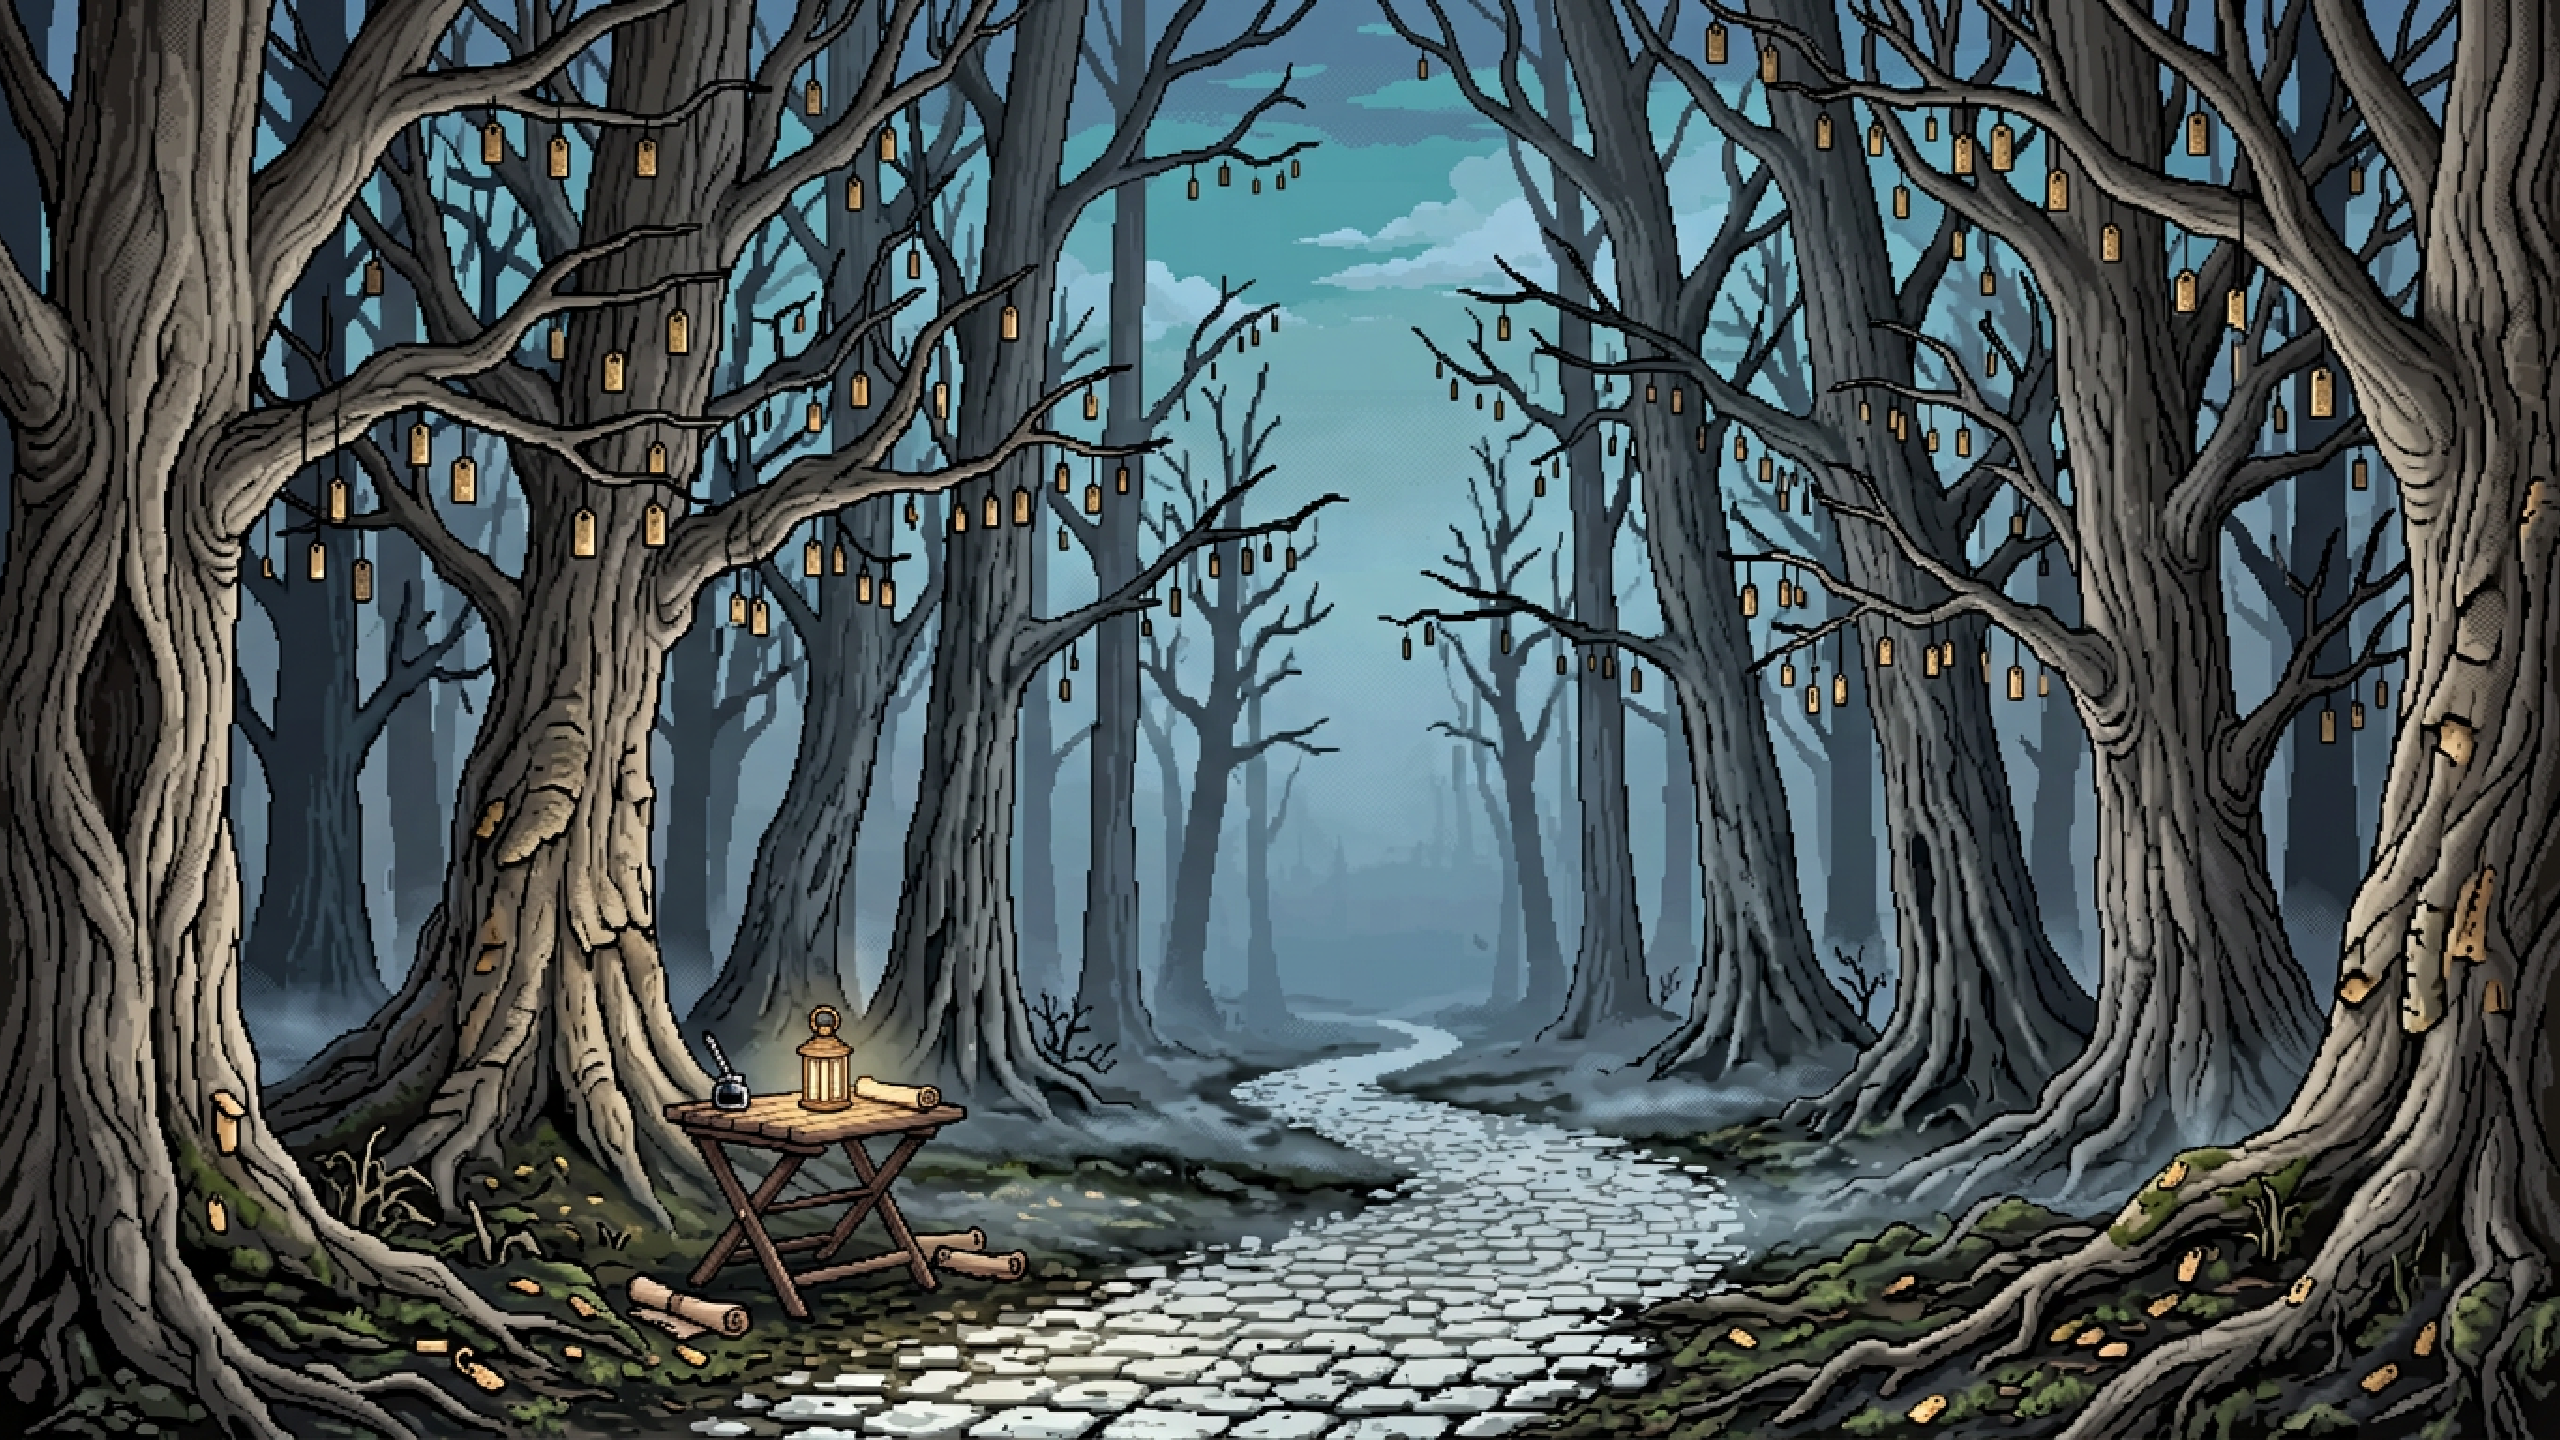
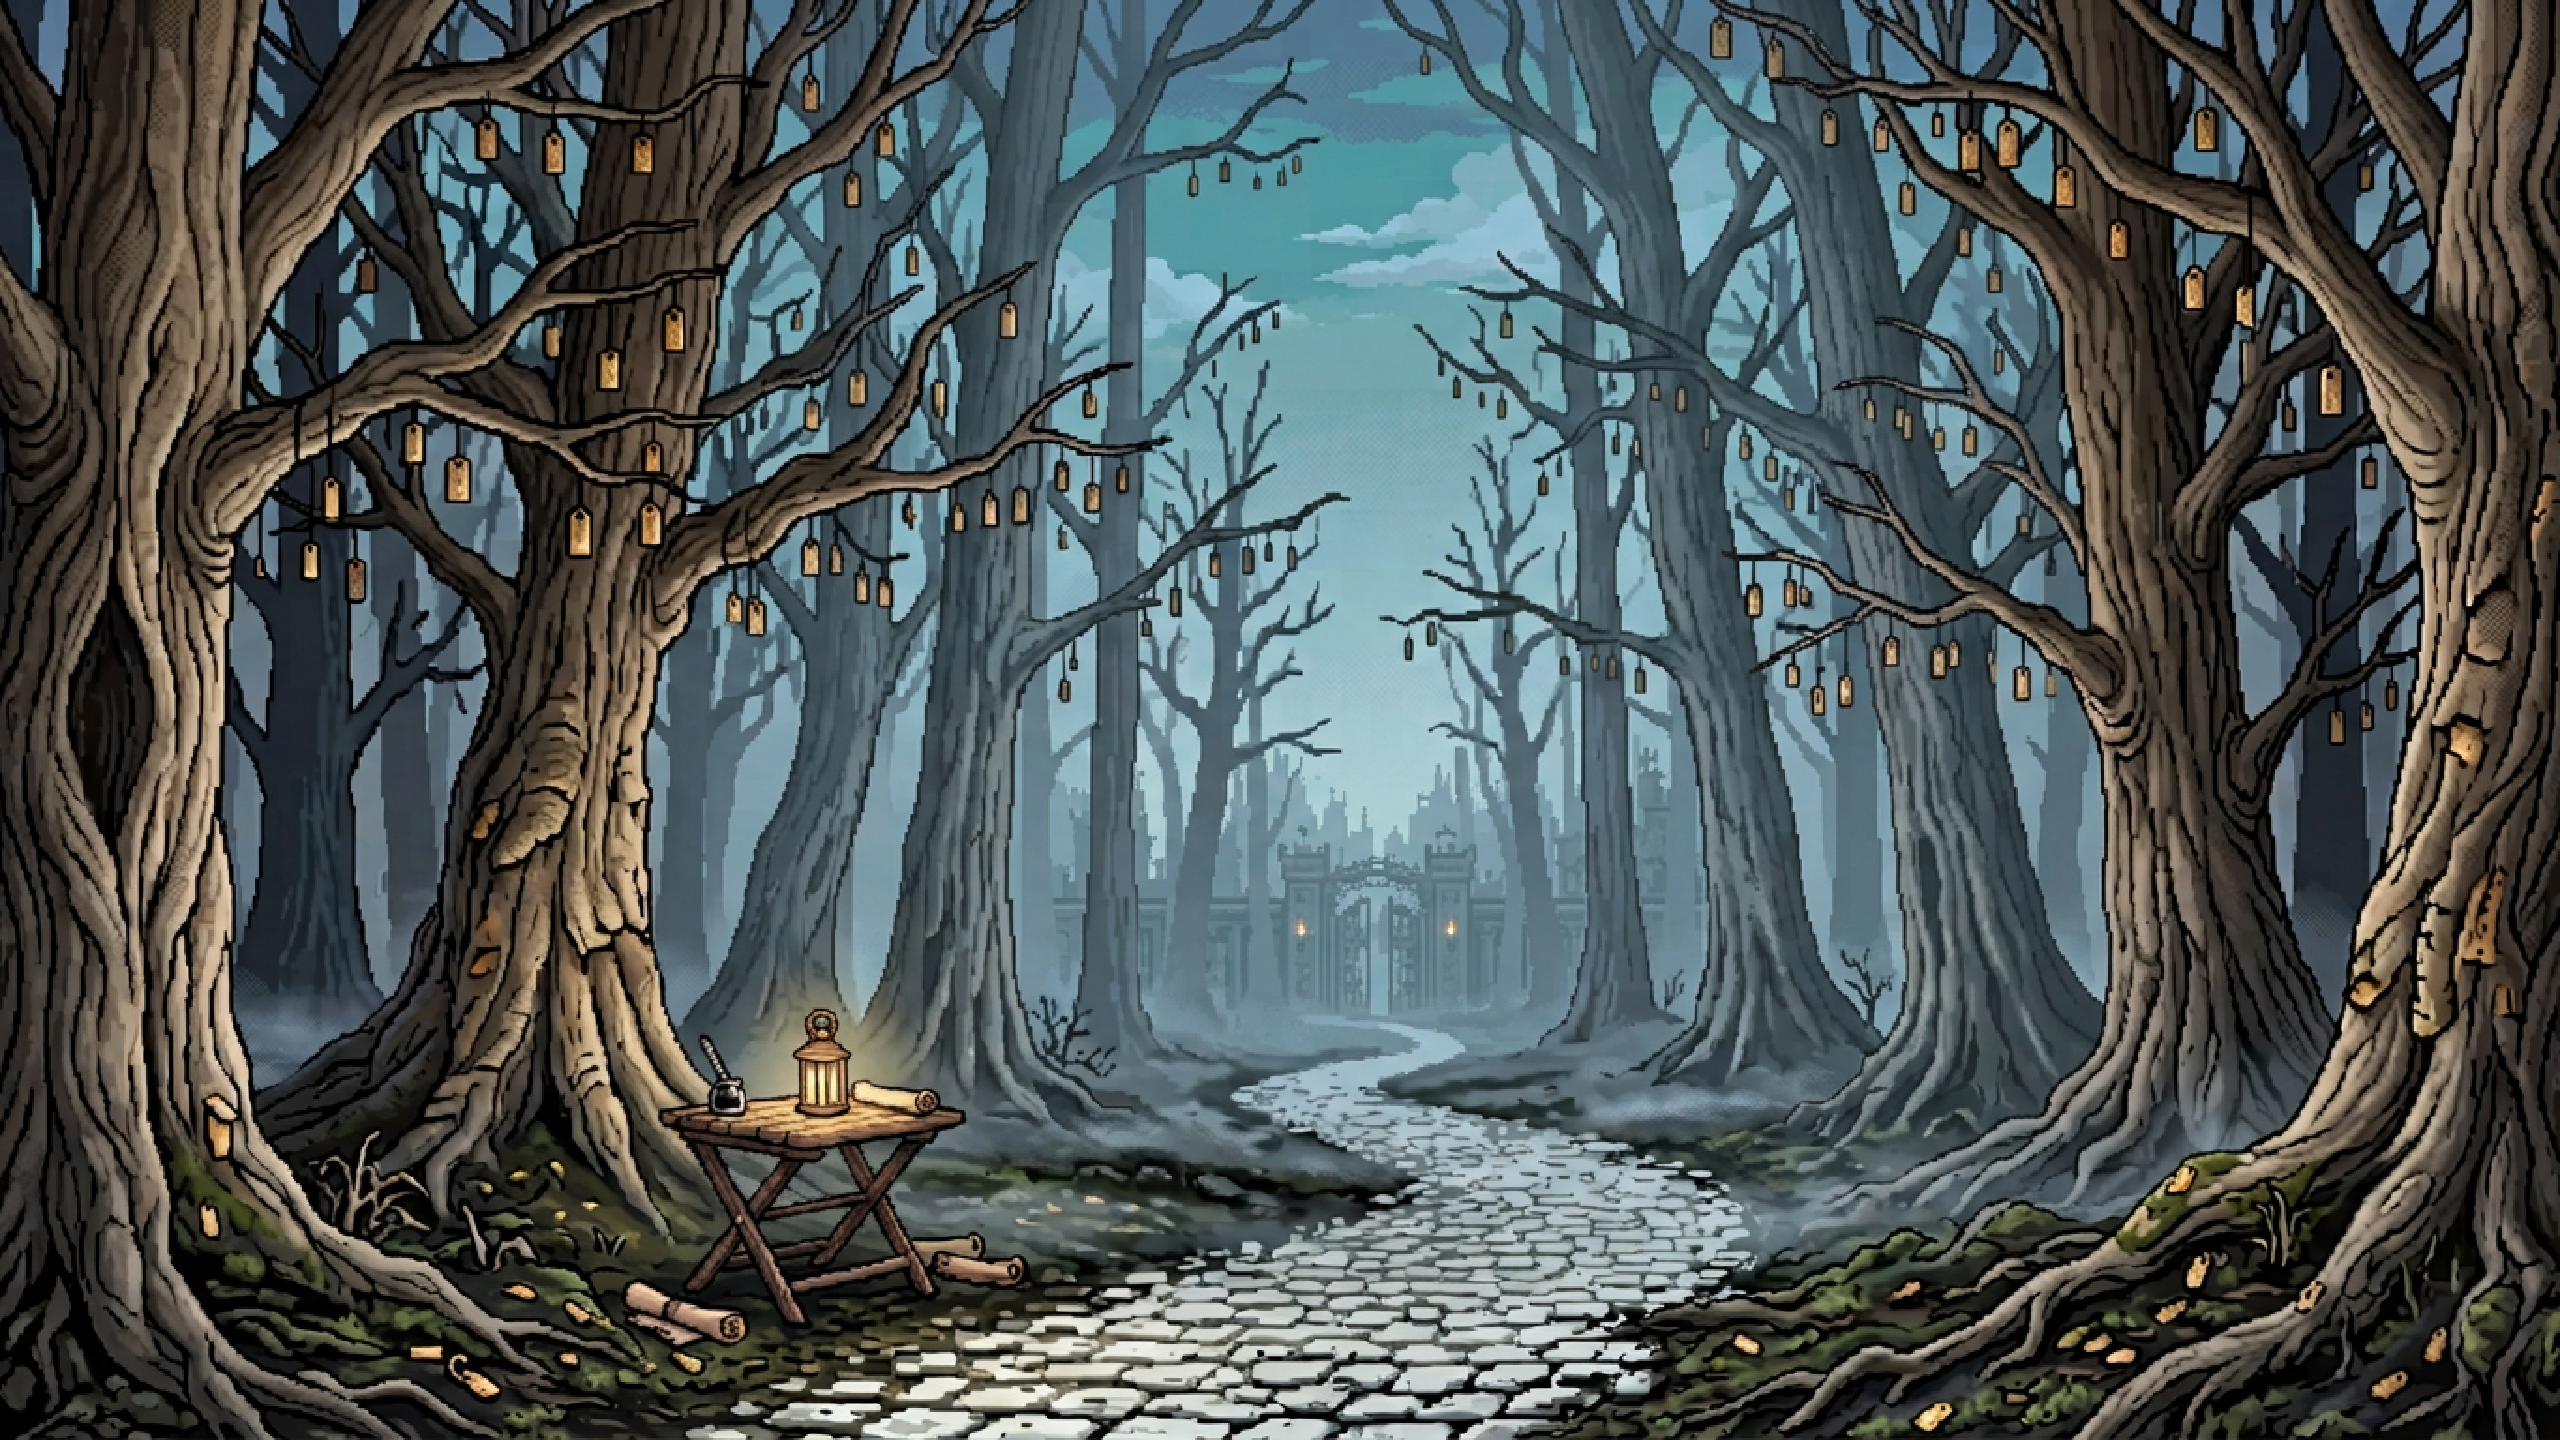
Road of Echoes repainted borderless; ledger tell moved below the grid; lock text centered; round-3 teaches sigils and the one-two
1. assets/chapter-1/cw-bg.png regenerated in the character art's
   borderless style (the debt from the boards pass): the winding
   cobblestone road through the tag-hung forest, the Recruiter's
   desk with lantern and quill, the gate in the mist - same
   composition, forms from color and light, no linework.

2. THE LEDGER TELL sits BELOW the enemy grid now (owner note: above
   it, appearing/disappearing shifted the enemy cards out of
   alignment with the player's rows). Same element, same behavior,
   zero layout shift.

3. .dk-lock centers its text vertically (align-items center, the
   icon's compensating margin dropped).

4. ROUND 3 = the first free round, and now it TEACHES like one. Two
   new barks land right after the handoff, exactly when the Piper
   and the Queen have left real sigils on the enemy line:
   - the STATUS lesson: what the sigils are, and that HOVERING one
     explains it;
   - the COMBO lesson: 'let the Piper carve their defence open, then
     send Goldilocks to collect' - expose-then-execute, the one-two,
     tactical depth over attack-and-hope (owner ruling 2026-08-10).

Tests: verify_campaign 332 (+4: round-3 authored, teaches HOVER,
preaches the one-two, ASCII); e2e watches the status lesson display
during free play and asserts the role-reaction by its FIRING record
(campaign._battleWatch().rxFired) instead of racing the now-longer
bark queue - the one flake this exposed, fixed at the root.
[…]

diff --git a/sim/browser_campaign_jsdom.js b/sim/browser_campaign_jsdom.js
@@ -346,7 +346,7 @@ const server = http.createServer((req, res) => {
      handoff bark must land and at least one role-lesson REACTION must
      fire on a signature the player chose to cast. */
   let sawHandoffBark = false,
-    sawReaction = false,
+    sawStatusLesson = false,
     sawDmgPreview = false;
   const guard2 = Date.now() + 420000;
   while (Date.now() < guard2) {
@@ -354,11 +354,9 @@ const server = http.createServer((req, res) => {
     if (!B || B.over) break;
     const barkTxt = $('rival-bark-text').textContent;
     if (/ledger ends here/i.test(barkTxt)) sawHandoffBark = true;
+    if (/STATUSES|sigils/.test(barkTxt)) sawStatusLesson = true;
     if (/CONTROLLERS|CASTERS/.test(barkTxt)) sawRoleSay = true; // queued scripted says drain here
-    if (/BRUISERS|SNIPERS|MEDICS|TANKS/.test(barkTxt)) {
-      sawReaction = true; // these four ONLY exist as post-handoff reactions now
-      sawRoleSay = true;
-    }
+    if (/BRUISERS|SNIPERS|MEDICS|TANKS/.test(barkTxt)) sawRoleSay = true;
     if (B.turn !== 'player' || d.body.dataset.busy === '1') {
       await sleep(220);
       continue;
@@ -413,7 +411,17 @@ const server = http.createServer((req, res) => {
   const Bend = w.EOL.battle.getState();
   t(!!Bend && Bend.over && Bend.winner === 'player', 'the FREE half still ends in VICTORY');
   t(sawHandoffBark, 'the Recruiter announces the handoff ("the ledger ends here")');
-  t(sawReaction, 'a role-signature REACTION fired on a move the player chose');
+  {
+    // the reaction layer: assert the FIRING (the queue may still be
+    // draining lessons when the battle ends - display is timing, the
+    // record is truth)
+    const bw = w.EOL.campaign._battleWatch();
+    t(
+      !!bw && Object.keys(bw.rxFired || {}).some((k) => k.indexOf('role-') === 0),
+      'a role-signature REACTION fired on a move the player chose'
+    );
+  }
+  t(sawStatusLesson, 'round 3 taught reading the status sigils (and the hover)');
   t(sawRoleSay, 'signature narration teaches ROLES, not damage numbers');
   t(sawDmgPreview, 'targetable enemies wore a damage preview during free play');
   t(sawBannerCut, 'acting cuts a lingering YOUR TURN banner in the same click');

diff --git a/index.html b/index.html
@@ -2009,11 +2009,11 @@
             <i class="ra ra-skull"></i><span>Enemy Deck</span>
             <span class="prep-note" id="prep-enemy-note">tap 2 to ban</span>
           </div>
+          <div class="prep-cards" id="prep-enemy"></div>
           <!-- CAMPAIGN: the Recruiter's ledger - how this rival bans,
-               told BEFORE the player commits. Banning is the first and
-               least-informed call of every gate (playtest note
-               2026-08-09); the ledger turns a hidden habit into a
-               readable reputation. Ban phase only. -->
+               told BEFORE the player commits. Sits BELOW the grid
+               (owner note 2026-08-10: above it, it shifted the enemy
+               cards out of alignment with the player's). -->
           <p class="ledger-tell" id="prep-ledger-tell" hidden>
             <i class="ra ra-quill-ink" aria-hidden="true"></i>
             <span class="ledger-tell-body">
@@ -2021,7 +2021,6 @@
               <span id="prep-ledger-tell-text"></span>
             </span>
           </p>
-          <div class="prep-cards" id="prep-enemy"></div>
         </section>
 
         <section class="prep-side field" id="prep-field" hidden>

diff --git a/data/campaign-ch1.js b/data/campaign-ch1.js
@@ -280,6 +280,15 @@ window.EOL = window.EOL || {};
           2: [
             'Round two - SIGNATURES unlock. The expensive, theatrical ones. Time to spend what you hoarded.',
           ],
+          /* round 3 = the first FREE round (the handoff lands just
+             before these). By now the Piper and the Queen have left
+             sigils on the enemy line - teach reading them, then teach
+             the one-two (playtest ruling 2026-08-10: encourage combo
+             thinking, not attack-and-hope). */
+          3: [
+            'See the little sigils under a legend\'s health bar? STATUSES - blessings and curses. HOVER one and it explains itself. Read the enemy before you swing; wars are won by people who read.',
+            'A trade secret: curses COMPOUND. Let the Piper carve their defence open, then send Goldilocks to collect what is left. Expose, then execute - the Road rewards the one-two, not heroics.',
+          ],
           4: [
             'Round four. From here the Road sharpens every blade a little more each round - it despises stalemates. Finish what you started.',
           ],

diff --git a/sim/verify_campaign.js b/sim/verify_campaign.js
@@ -163,6 +163,23 @@ console.log('B2. the fully scripted first gate');
   var T = st1.tutorial;
   ok(!!T, 'stage 1 carries tutorial copy');
   ok(T.intro && T.intro.length >= 2, 'tutorial: prep intro beats');
+  /* the post-handoff round-3 lessons (owner ruling 2026-08-10): read
+     the sigils (and HOVER them), then the one-two - expose, execute */
+  ok(
+    Array.isArray((T.rounds || {})[3]) && T.rounds[3].length === 2,
+    'tutorial: round-3 carries the status + combo lessons'
+  );
+  ok(
+    /STATUS/i.test(T.rounds[3][0]) && /HOVER/.test(T.rounds[3][0]),
+    'the status lesson teaches sigil-reading and the hover'
+  );
+  ok(/one-two/i.test(T.rounds[3][1]), 'the combo lesson preaches the one-two');
+  ok(
+    T.rounds[3].every(function (l) {
+      return /^[\x20-\x7E]+$/.test(l);
+    }),
+    'round-3 lessons are pure ASCII'
+  );
   ['ban0', 'ban1', 'ban2', 'reveal', 'arena', 'tips', 'field', 'rows', 'toBattle'].forEach(function (k) {
     ok(typeof T[k] === 'string' && T[k].length > 20, 'tutorial: ' + k + ' authored');
   });

diff --git a/css/style.css b/css/style.css
@@ -9334,7 +9334,7 @@ body[data-gfx='low'] .col-thumb {
   display: flex;
   align-items: flex-start;
   gap: 9px;
-  margin: -2px 0 10px;
+  margin: 10px 0 0; /* below the enemy grid - never shifts the rows */
   padding: 8px 12px;
   border-left: 3px solid rgba(255, 214, 130, 0.5);
   border-radius: 0 10px 10px 0;
@@ -24180,7 +24180,7 @@ html.mqw640 .tutor-face {
 /* the why, at the FOOT of the hover panel */
 .dk-lock {
   display: flex;
-  align-items: flex-start;
+  align-items: center; /* owner note 2026-08-10: text sat high in the box */
   gap: 7px;
   margin-top: 8px;
   padding: 7px 10px;
@@ -24196,7 +24196,6 @@ html.mqw640 .tutor-face {
 }
 .dk-lock i {
   flex: 0 0 auto;
-  margin-top: 1px;
   font-size: 12px;
 }
 .dk-lock span {
